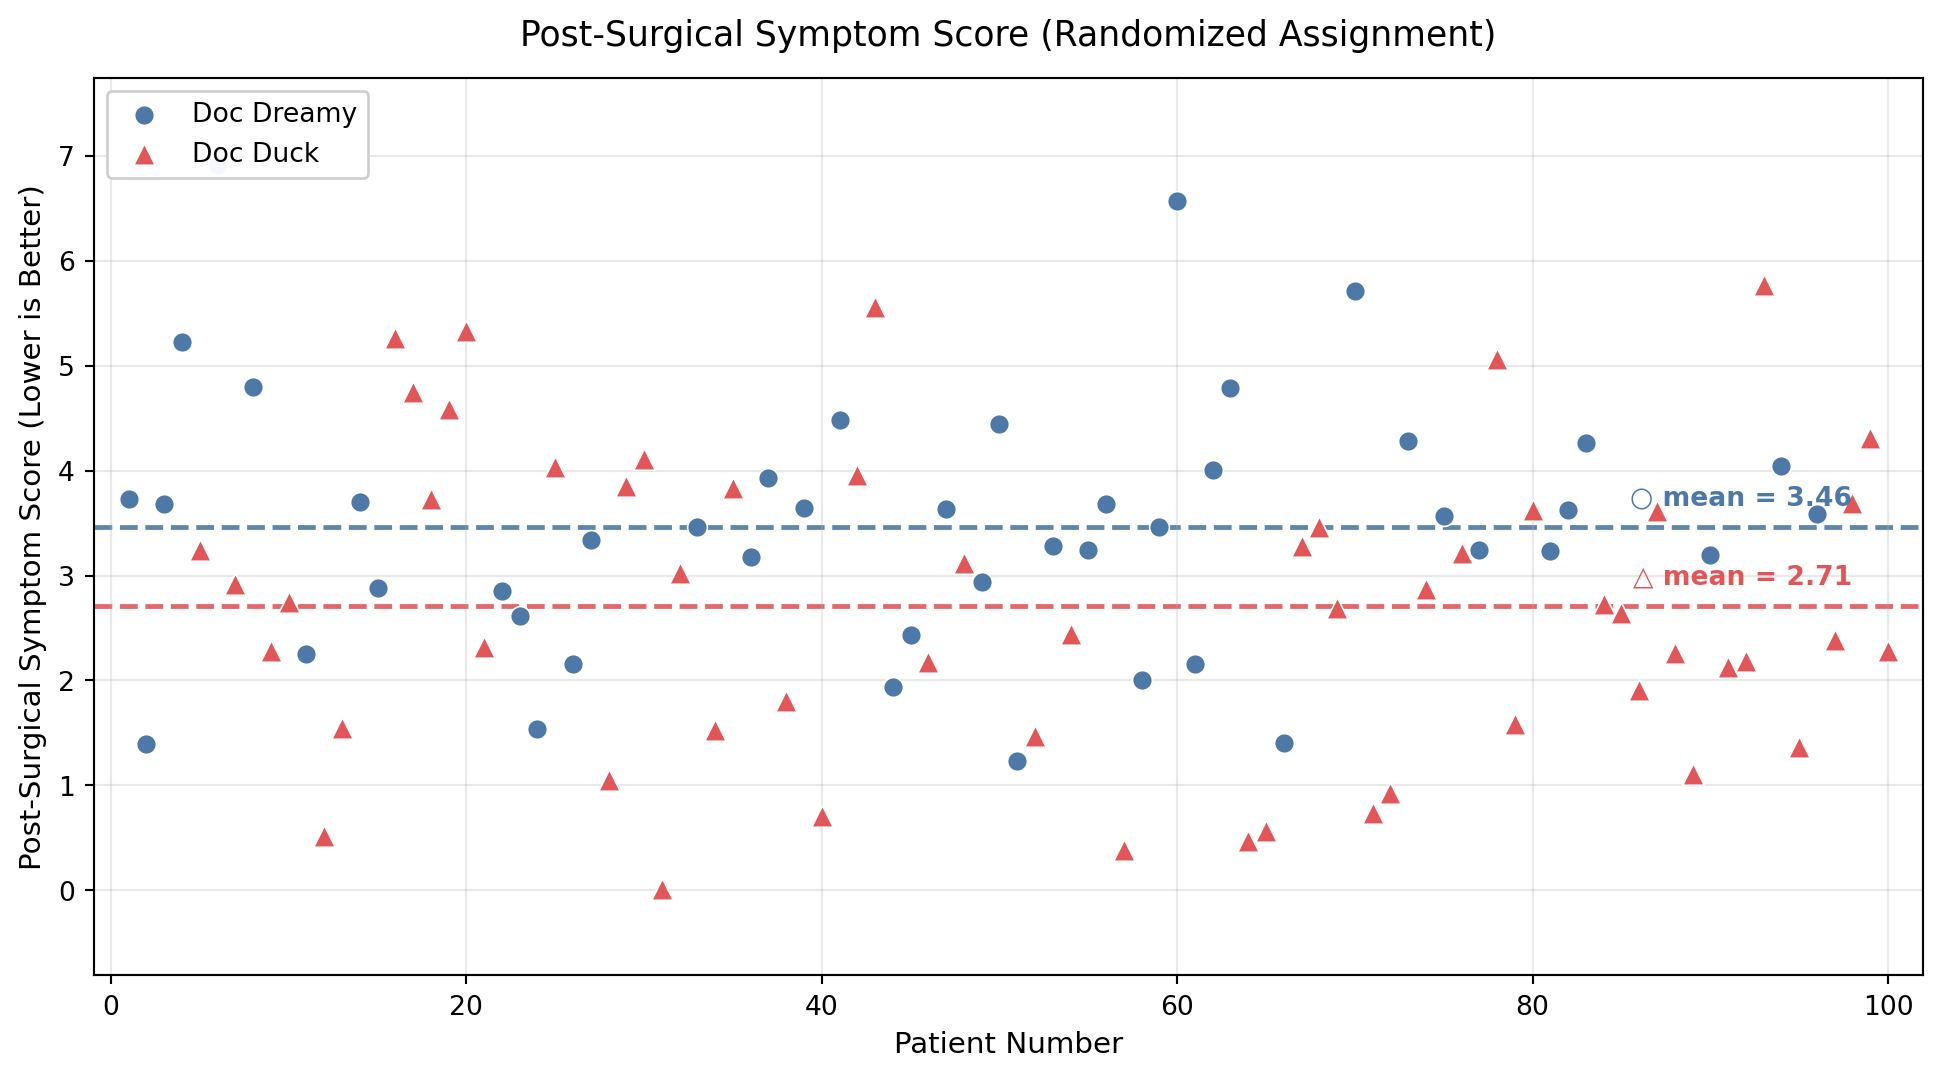
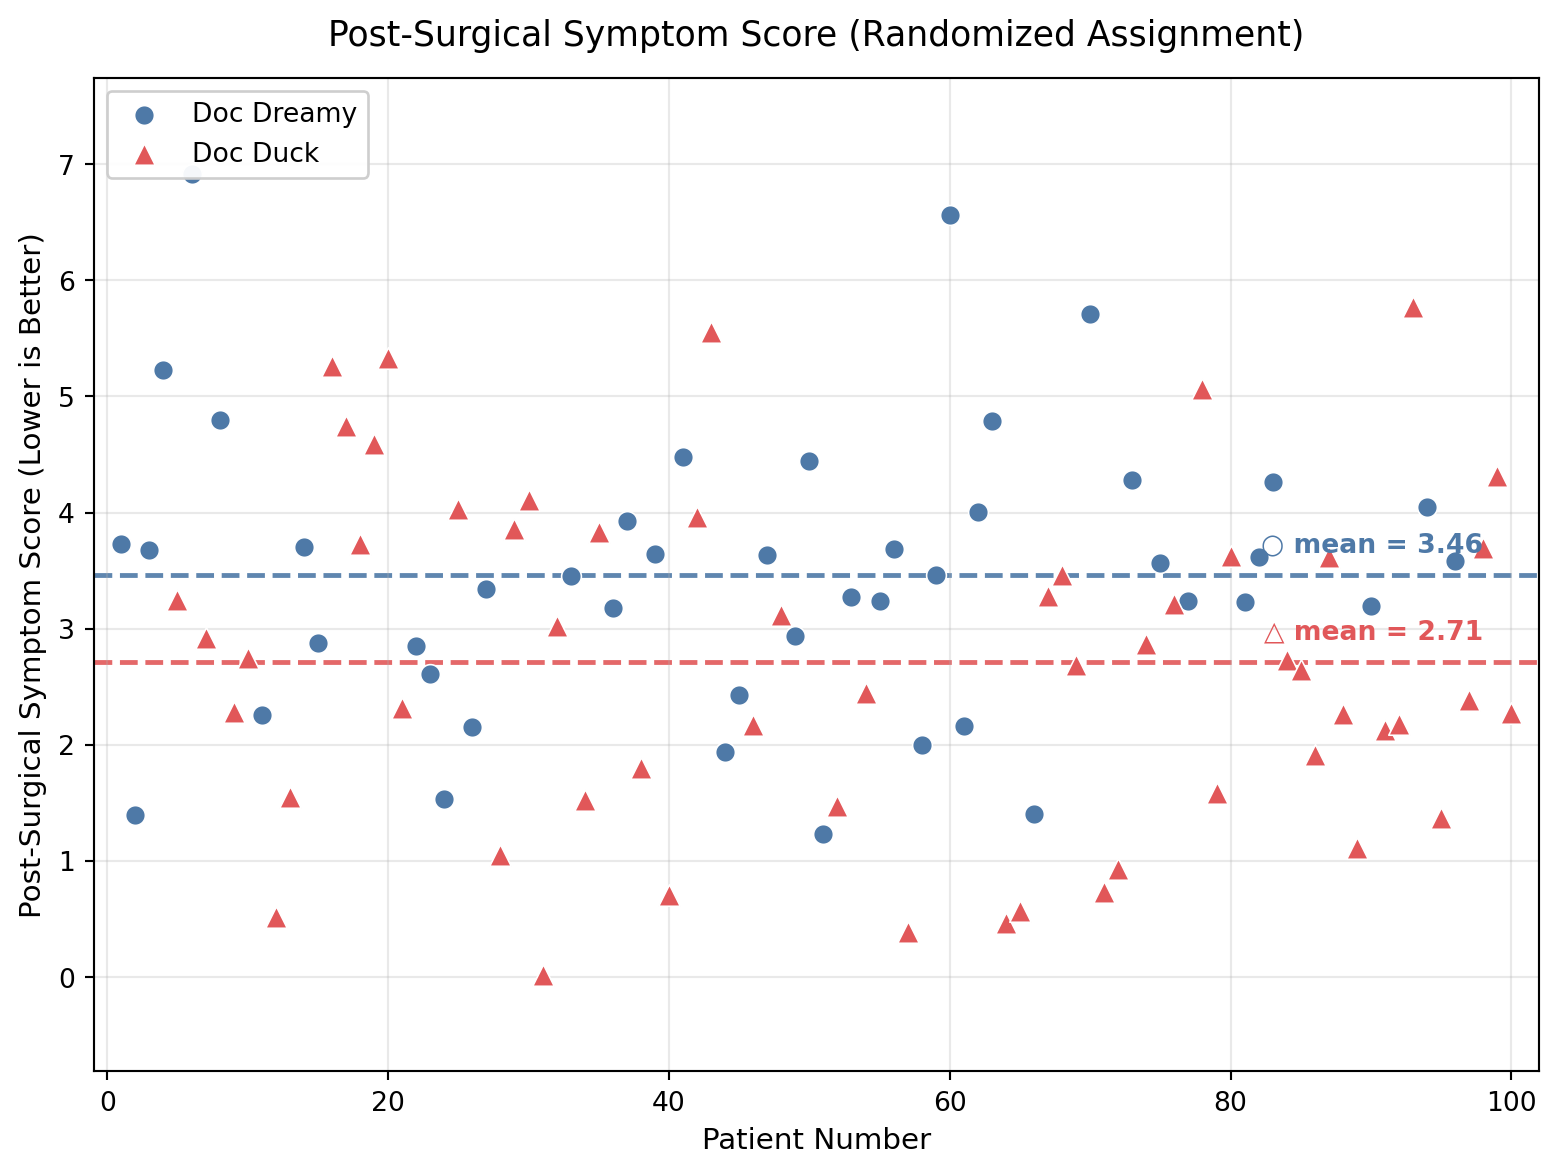
Size Html

diff --git a/index.html b/index.html
@@ -218,7 +218,7 @@ window.Quarto = {
 <div id="fig-plot-outcomes" class="quarto-float quarto-figure quarto-figure-center anchored">
 <figure class="quarto-float quarto-float-fig figure">
 <div aria-describedby="fig-plot-outcomes-caption-0ceaefa1-69ba-4598-a22c-09a6ac19f8ca">
-<img src="index_files/figure-html/fig-plot-outcomes-output-1.png" width="971" height="539" class="figure-img">
+<img src="index_files/figure-html/fig-plot-outcomes-output-1.png" width="779" height="587" class="figure-img">
 </div>
 <figcaption class="quarto-float-caption-bottom quarto-float-caption quarto-float-fig" id="fig-plot-outcomes-caption-0ceaefa1-69ba-4598-a22c-09a6ac19f8ca">
 Figure&nbsp;1: Post-Surgical Symptom Score (lower is better) - Observed Data
@@ -378,7 +378,7 @@ Figure&nbsp;4: DAG Model Explaining Surgical Outcomes
 <div id="fig-plot-outcomes-randomized" class="quarto-float quarto-figure quarto-figure-center anchored">
 <figure class="quarto-float quarto-float-fig figure">
 <div aria-describedby="fig-plot-outcomes-randomized-caption-0ceaefa1-69ba-4598-a22c-09a6ac19f8ca">
-<img src="index_files/figure-html/fig-plot-outcomes-randomized-output-1.png" width="971" height="539" class="figure-img">
+<img src="index_files/figure-html/fig-plot-outcomes-randomized-output-1.png" width="779" height="587" class="figure-img">
 </div>
 <figcaption class="quarto-float-caption-bottom quarto-float-caption quarto-float-fig" id="fig-plot-outcomes-randomized-caption-0ceaefa1-69ba-4598-a22c-09a6ac19f8ca">
 Figure&nbsp;5: Post-Surgical Symptom Score (lower is better) for randomized patients.
@@ -410,10 +410,10 @@ Figure&nbsp;5: Post-Surgical Symptom Score (lower is better) for randomized pati
 </figure>
 </div>
 <div class="cell-output cell-output-display">
-<div id="fig-plot-outcomes-severity-2" class="quarto-float quarto-figure quarto-figure-center anchored" width="971" height="539">
+<div id="fig-plot-outcomes-severity-2" class="quarto-float quarto-figure quarto-figure-center anchored" height="587" width="779">
 <figure class="quarto-float quarto-subfloat-fig figure">
 <div aria-describedby="fig-plot-outcomes-severity-2-caption-0ceaefa1-69ba-4598-a22c-09a6ac19f8ca">
-<img src="index_files/figure-html/fig-plot-outcomes-severity-output-2.png" id="fig-plot-outcomes-severity-2" data-ref-parent="fig-plot-outcomes-severity" width="971" height="539" class="figure-img">
+<img src="index_files/figure-html/fig-plot-outcomes-severity-output-2.png" id="fig-plot-outcomes-severity-2" data-ref-parent="fig-plot-outcomes-severity" width="779" height="587" class="figure-img">
 </div>
 <figcaption class="quarto-float-caption-bottom quarto-subfloat-caption quarto-subfloat-fig" id="fig-plot-outcomes-severity-2-caption-0ceaefa1-69ba-4598-a22c-09a6ac19f8ca">
 (b)
